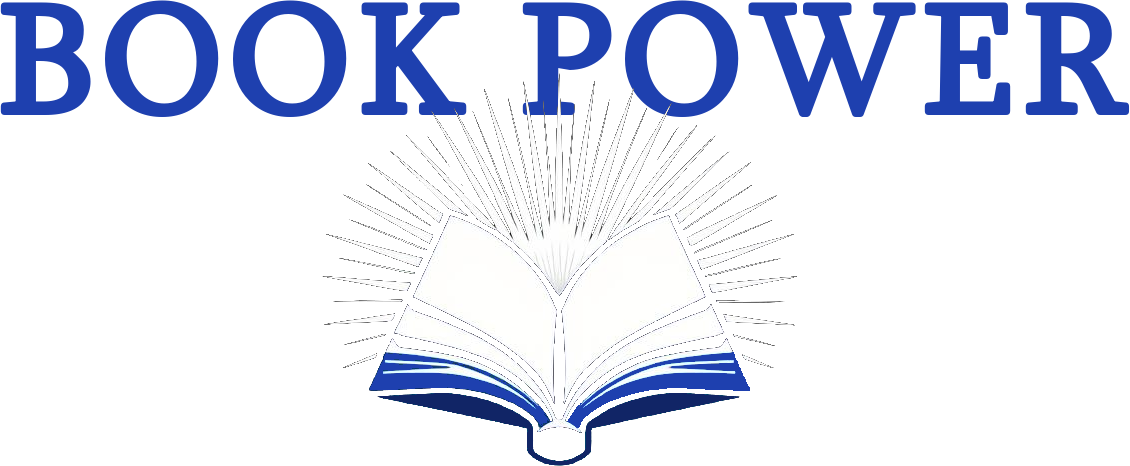
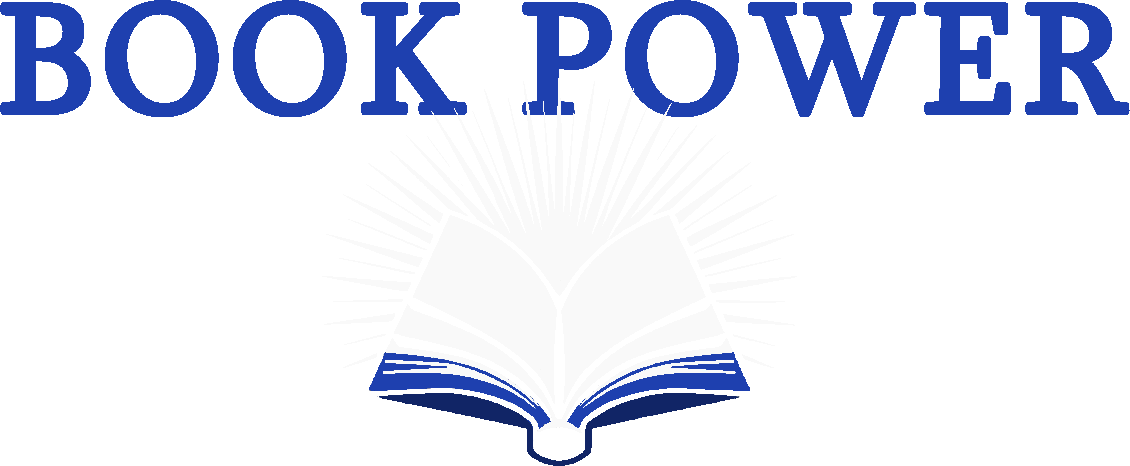
dark n light image update

diff --git a/components/pages/HomePage.jsx b/components/pages/HomePage.jsx
@@ -2,7 +2,8 @@ import ChatContainer from "../elements/chat/ChatContainer";
 import NavBar from "../elements/NavBar";
 import Footer from "../elements/Footer";
 import Image from "next/image";
-import Illustration from "@/public/book_power.png"
+import IllustrationDark from "@/public/book_power.png";
+import IllustrationLight from "@/public/book_power_light.png";
 
 export default function HomePage() {
 	return (
@@ -10,9 +11,21 @@ export default function HomePage() {
 		<ChatContainer />
         <NavBar curentSiteId={0} />
         
-		<div className="w-full h-96"> 
-			<Image src={Illustration} alt="Book Power Image" className="w-[99%] sm:w-3/4 m-auto" ></Image>
-		</div>
+		<div className="w-full h-96 ">
+                {/* Light mode image */}
+                <div className="block dark:hidden w-[99%] sm:w-3/4 m-auto">
+                    <Image
+                        src={IllustrationLight} alt="Book Power"
+                    />
+                </div>
+
+                {/* Dark mode image */}
+                <div className="hidden dark:block w-[99%] sm:w-3/4 m-auto">
+                    <Image
+                        src={IllustrationDark} alt="Book Power"
+                    />
+                </div>
+            </div>
 
         <Footer />
     </>
